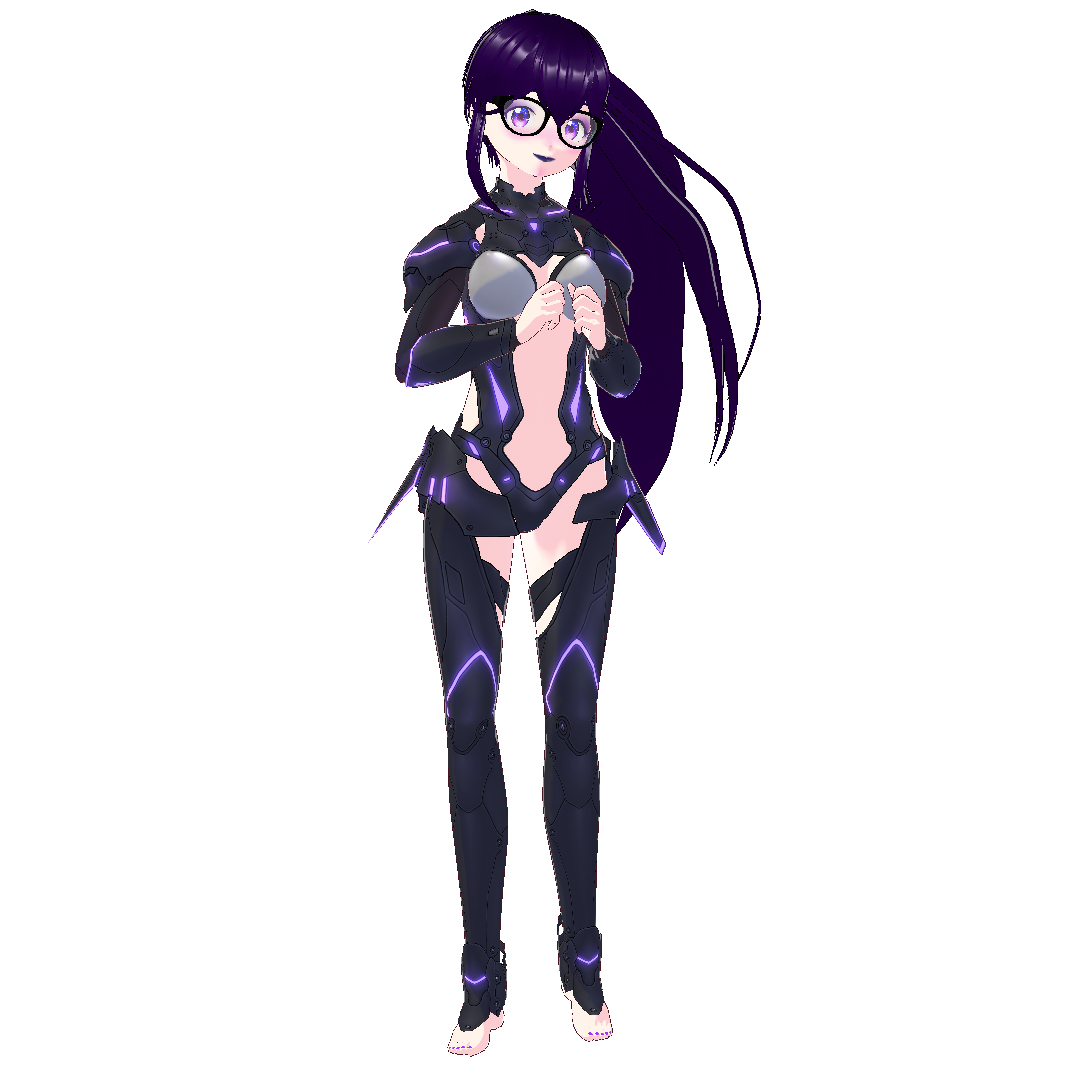
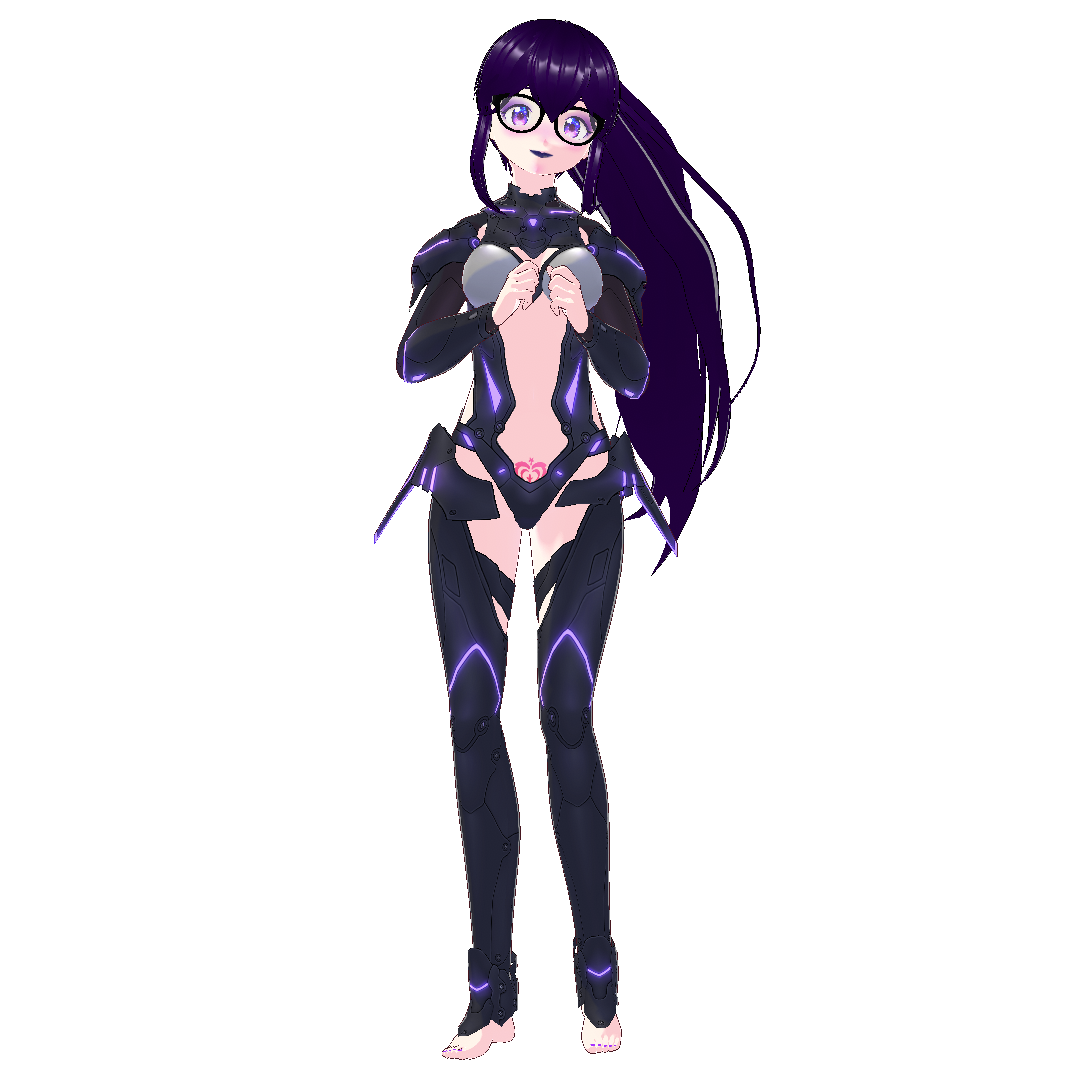
feat: more outfits

Changed region(s): [[0.3361, 0.0, 0.7028, 0.9778]]

diff --git a/src/assets/data/outfits.ts b/src/assets/data/outfits.ts
@@ -83,11 +83,24 @@ export const Outfits: Outfit[] = [
     alt: 'Naomi wearing a black and white striped dress with a lace collar, hem, garters, and sleeves. Her hair is long twintails.',
   },
   {
+    name: 'Hacker Gear',
+    fileName: 'hacker.png',
+    description:
+      'The perfect attire when working on your code!',
+    alt: 'Naomi wearing a black cybernetic dress with holographic blue ribbons extending down her arms and legs.'
+  },
+  {
     name: 'Kimono',
     fileName: 'kimono.png',
     description:
       "Also suitable for formal wear, Naomi's kimono is one of her favourite outfits.",
     alt: 'Naomi wearing a black kimono, with her hair in tight side-buns.',
+  },
+  {
+    name: 'Lace Dress',
+    fileName: 'lace-2.png',
+    description: 'This dress is nice and light, but still very elegant.',
+    alt: 'Naomi wearing a small black dress, with a large black mesh/lace dress over it.'
   },
   {
     name: 'Lace Skirt',
@@ -100,6 +113,12 @@ export const Outfits: Outfit[] = [
     fileName: 'leather.png',
     description: 'Every girl needs a leather outfit, right??',
     alt: 'Naomi wearing a leather bustier with straps and a leather miniskirt. Her hair is in short pigtails.',
+  },
+  {
+    name: 'Maid Outfit (Pastel)',
+    fileName: 'maid-2.png',
+    description: 'Sometimes Naomi feels a bit more pastel.',
+    alt: 'Naomi wearing a light pink leotard with blue accents, and a white dress with a cage skirt.'
   },
   {
     name: 'Maid Outfit',
@@ -185,6 +204,12 @@ export const Outfits: Outfit[] = [
     alt: 'Naomi wearing a red dress with a purple skirt and detached sleeves. Her hair is in tight twin buns, with braids trailing down the sides of her face.',
   },
   {
+    name: 'School Uniform - Navy',
+    fileName: 'school-2.png',
+    description: 'Another school uniform.',
+    alt: 'A nave blue sailor fuku and pleated skirt.',
+  },
+  {
     name: 'School Uniform',
     fileName: 'school.png',
     description:
@@ -203,6 +228,18 @@ export const Outfits: Outfit[] = [
     fileName: 'sleep.png',
     description: 'She wears this to sleep, not in public.',
     alt: 'Naomi wearing a black sports bra and sweatpants, with cat faces printed on the elastic bands. Her hair is put up into two buns.',
+  },
+  {
+    name: 'Spoopy Dress',
+    fileName: 'spoopy.png',
+    description: "Naomi's Halloween attire.",
+    alt: 'Naomi wearing a black corset, a purple skirt and stockings, and a purple overcoat.'
+  },
+  {
+    name: 'Steampunk Dress',
+    fileName: 'steampunk.png',
+    description: "Okay, it's not quite steampunk, but pretty close!",
+    alt: 'Naomi wearing a black dress, with a partially concealed cage skirt.'
   },
   {
     name: 'Strappy Outfit',
